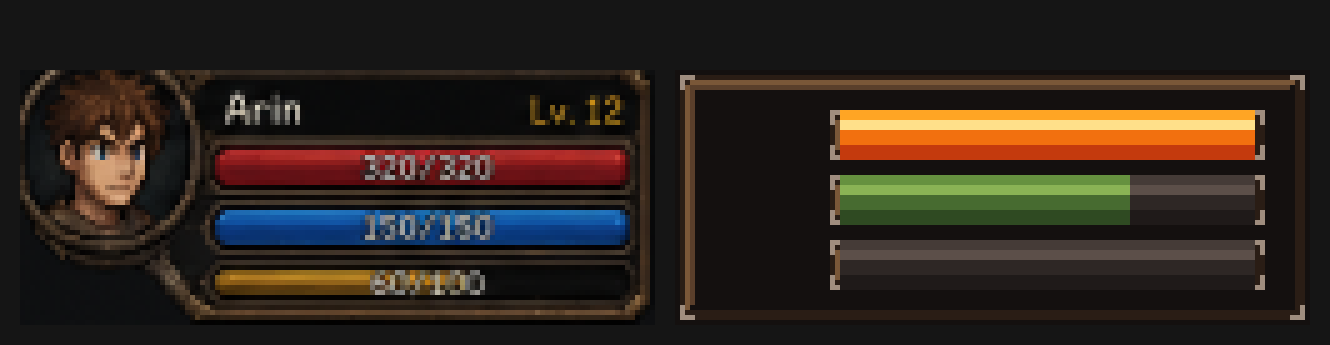
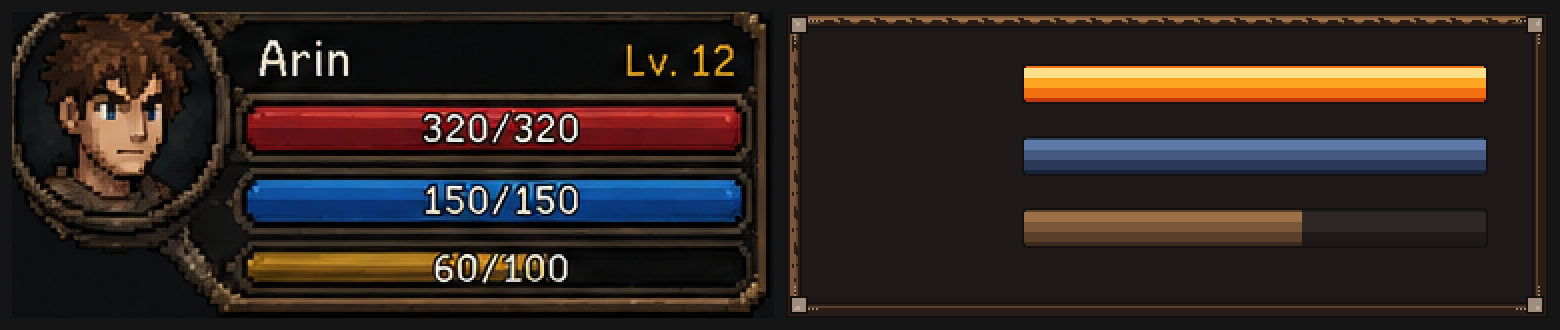
Cofnij swiecace oczy goblina i porownaj HUD w skali 1:1
Oczy byly latka: wziety jeden szczegol z materialu odniesienia i wklejony
w stara sylwetke. To nie jest zrobienie postaci w tym stylu.

Porownanie HUD bylo ustawione - pomniejszalem wzor trzykrotnie przed
zestawieniem. W skali 1:1 widac, ze to dwie rozne grafiki.

diff --git a/tools/art/ui.js b/tools/art/ui.js
@@ -197,6 +197,115 @@ export function barSlice(name, ramp) {
   return t;
 }
 
+// --- Panel w skali wzoru -------------------------------------------------------
+//
+// **HUD nie jest związany z siatką 16 pikseli.** Świat rysuje się w powiększeniu
+// całkowitym, ale interfejs leci w rozdzielczości ekranu — może więc mieć tyle
+// szczegółu, ile ma odniesienie. Pierwsza wersja tego nie wykorzystywała: ramka
+// miała brzeg szeroki na sześć pikseli, bo tak wyszło z myślenia o kaflach, i przy
+// zestawieniu z obrazkiem wzorcowym wyglądała jak jego pomniejszony szkic.
+//
+// Tu brzeg ma osiemnaście pikseli i mieści to samo, co wzór: fazę, słoje, ciemny
+// spód i okucie narożne z wąsami.
+export const PANEL_SLICE = 18;
+
+export function panelBig(name) {
+  const rng = rngFor(name);
+  const s = PANEL_SLICE;
+  const size = s * 3;
+  const t = new Canvas(size, size);
+
+  const edge = c('soot', 0);
+  const dark = c('wood', 0);
+  const body = c('wood', 2);
+  const lit = c('wood', 3);
+  const hot = c('wood', 4);
+  const brass = c('stone', 3);
+  const brassLit = c('stone', 4);
+
+  t.rect(0, 0, size, size, c('soot', 1));
+
+  // Brzeg warstwami. Wartości grubości wzięte z przekroju przez wzór:
+  // czarny, ciemne drewno, jasna listwa, korpus, ciemny spód, czarna kreska.
+  const ring = (inset, col) => t.frame(inset, inset, size - inset * 2, size - inset * 2, col);
+  ring(0, edge);
+  ring(1, dark);
+  for (let i = 2; i <= 5; i++) ring(i, body);
+  ring(6, dark);
+  ring(7, edge);
+
+  // Faza: światło od góry i z lewej, cień od dołu i z prawej. To ona daje grubość.
+  for (let i = 2; i <= 4; i++) {
+    t.hline(i, size - 1 - i, i, i === 2 ? lit : hot);
+    t.vline(i, i, size - 1 - i, i === 2 ? lit : lit);
+    t.hline(i, size - 1 - i, size - 1 - i, dark);
+    t.vline(size - 1 - i, i, size - 1 - i, dark);
+  }
+
+  // Słoje: krótkie ciemniejsze kreski wzdłuż listwy. Gładkie drewno wygląda
+  // jak plastik — to one robią materiał.
+  for (let i = 0; i < 26; i++) {
+    const along = rng.between(6, size - 7);
+    const len = rng.between(2, 5);
+    if (rng.chance(0.5)) t.hline(along, Math.min(size - 7, along + len), rng.between(3, 5), dark);
+    else t.vline(rng.between(3, 5), along, Math.min(size - 7, along + len), dark);
+  }
+
+  // Okucie narożne: mosiężna płytka z nitem i wąsami wchodzącymi na oba boki.
+  const fitting = (cx, cy, sx, sy) => {
+    t.rect(Math.min(cx, cx + sx * 8), Math.min(cy, cy + sy * 8), 9, 9, brass);
+    t.frame(Math.min(cx, cx + sx * 8), Math.min(cy, cy + sy * 8), 9, 9, edge);
+    // Nit i błysk na płytce.
+    t.rect(cx + sx * 3, cy + sy * 3, 2, 2, brassLit);
+    t.px(cx + sx * 2, cy + sy * 2, brassLit);
+    // Wąsy wzdłuż obu krawędzi.
+    for (let i = 9; i < 15; i++) {
+      if (i % 2 === 0) continue;
+      t.px(cx + sx * i, cy + sy * 2, brass);
+      t.px(cx + sx * 2, cy + sy * i, brass);
+    }
+  };
+  fitting(2, 2, 1, 1);
+  fitting(size - 3, 2, -1, 1);
+  fitting(2, size - 3, 1, -1);
+  fitting(size - 3, size - 3, -1, -1);
+
+  return t;
+}
+
+/**
+ * Pasek w kształcie pigułki — zaokrąglone końce, połysk i ciemny spód.
+ *
+ * Zwraca komplet: tło (puste) i wypełnienie. Oba w pełnej wysokości wzoru, więc
+ * gra rozciąga je wyłącznie w poziomie.
+ */
+export function pillBar(name, ramp, { height = 20, filled = true } = {}) {
+  const w = 24;
+  const t = new Canvas(w, height);
+  const edge = c('soot', 0);
+
+  for (let y = 0; y < height; y++) {
+    // Zaokrąglenie: przy górnej i dolnej krawędzi pasek jest węższy.
+    const fromEdge = Math.min(y, height - 1 - y);
+    const inset = fromEdge === 0 ? 3 : fromEdge === 1 ? 1 : 0;
+    const k = y / (height - 1);
+
+    let shade;
+    if (k < 0.10) shade = 2;
+    else if (k < 0.34) shade = 4;   // połysk
+    else if (k < 0.62) shade = 3;
+    else if (k < 0.86) shade = 2;
+    else shade = 1;                 // spód w cieniu
+
+    for (let x = inset; x < w - inset; x++) {
+      const onEdge = x === inset || x === w - 1 - inset || fromEdge === 0;
+      if (onEdge) t.px(x, y, edge);
+      else t.px(x, y, filled ? c(ramp, shade) : c('soot', shade > 2 ? 2 : 1));
+    }
+  }
+  return t;
+}
+
 export function buildUi() {
   const entries = [];
   const add = (name, canvas) => entries.push({ name, canvas });
@@ -212,6 +321,13 @@ export function buildUi() {
   add('bar_life', barSlice('bar_life', 'goblin'));
   add('bar_hurt', barSlice('bar_hurt', 'ember'));
   add('bar_empty', barSlice('bar_empty', 'soot'));
+
+  // Panel w skali wzoru — do HUD-u, który nie jest związany siatką kafli.
+  add('panel', panelBig('panel'));
+  add('pill_life', pillBar('pill_life', 'ember'));
+  add('pill_stam', pillBar('pill_stam', 'night'));
+  add('pill_food', pillBar('pill_food', 'wood'));
+  add('pill_empty', pillBar('pill_empty', 'soot', { filled: false }));
 
   add('pip_empty', dodgePip('pip_empty', { filled: false }));
   add('pip_full', dodgePip('pip_full', { filled: true }));

diff --git a/tools/art/goblins.js b/tools/art/goblins.js
@@ -418,8 +418,8 @@ function drawProfileHead(t, v, p) {
   }
 
   t.hline(8 + lean, 11 + lean, y + 3, dark);      // brew
-  t.rect(9 + lean, y + 4, 2, 2, c('ember', 2));   // świecące oko za nasadą nosa
-  px(10, y + 4, c('ember', 4));
+  t.rect(9 + lean, y + 4, 2, 2, c('parchment'));  // oko tuż za nasadą nosa
+  px(10, y + 4, c('soot', 0));
   px(12, y + 6, c('soot', 0));                    // nozdrze
   t.hline(8 + lean, 10 + lean, y + 7, c('soot', 1)); // usta
   px(10, y + 7, c('bone'));                       // kieł wystający do przodu
@@ -451,16 +451,10 @@ function drawHead(t, v, dir, p) {
 
   t.hline(x + 1, x + 4, y + 4, dark);      // brwi
   t.hline(x + 5, x + 8, y + 4, dark);
-  // **Oczy świecą na pomarańczowo**, a nie są białe z czarną źrenicą.
-  //
-  // Wzięte z odniesienia podesłanego przez użytkownika i jest to najtańsza
-  // zmiana o największym efekcie w całej sylwetce: dwa piksele żaru zamieniają
-  // ludzką twarz w goblina. Przy szesnastopikselowej postaci oczy to i tak
-  // jedyny szczegół twarzy, który da się przeczytać z odległości gry.
-  t.rect(x + 1, y + 5, 2, 2, c('ember', 2));
-  t.rect(x + 7, y + 5, 2, 2, c('ember', 2));
-  t.px(x + 2, y + 5, c('ember', 4));
-  t.px(x + 7, y + 5, c('ember', 4));
+  t.rect(x + 1, y + 5, 2, 2, c('parchment'));
+  t.rect(x + 7, y + 5, 2, 2, c('parchment'));
+  t.px(x + 2, y + 6, c('soot', 0));
+  t.px(x + 7, y + 6, c('soot', 0));
   t.rect(x + 4, y + 5, 2, 3, dark);        // nos
   t.px(x + 4, y + 6, mid);
   t.hline(x + 3, x + 6, y + 8, c('soot', 1)); // usta
